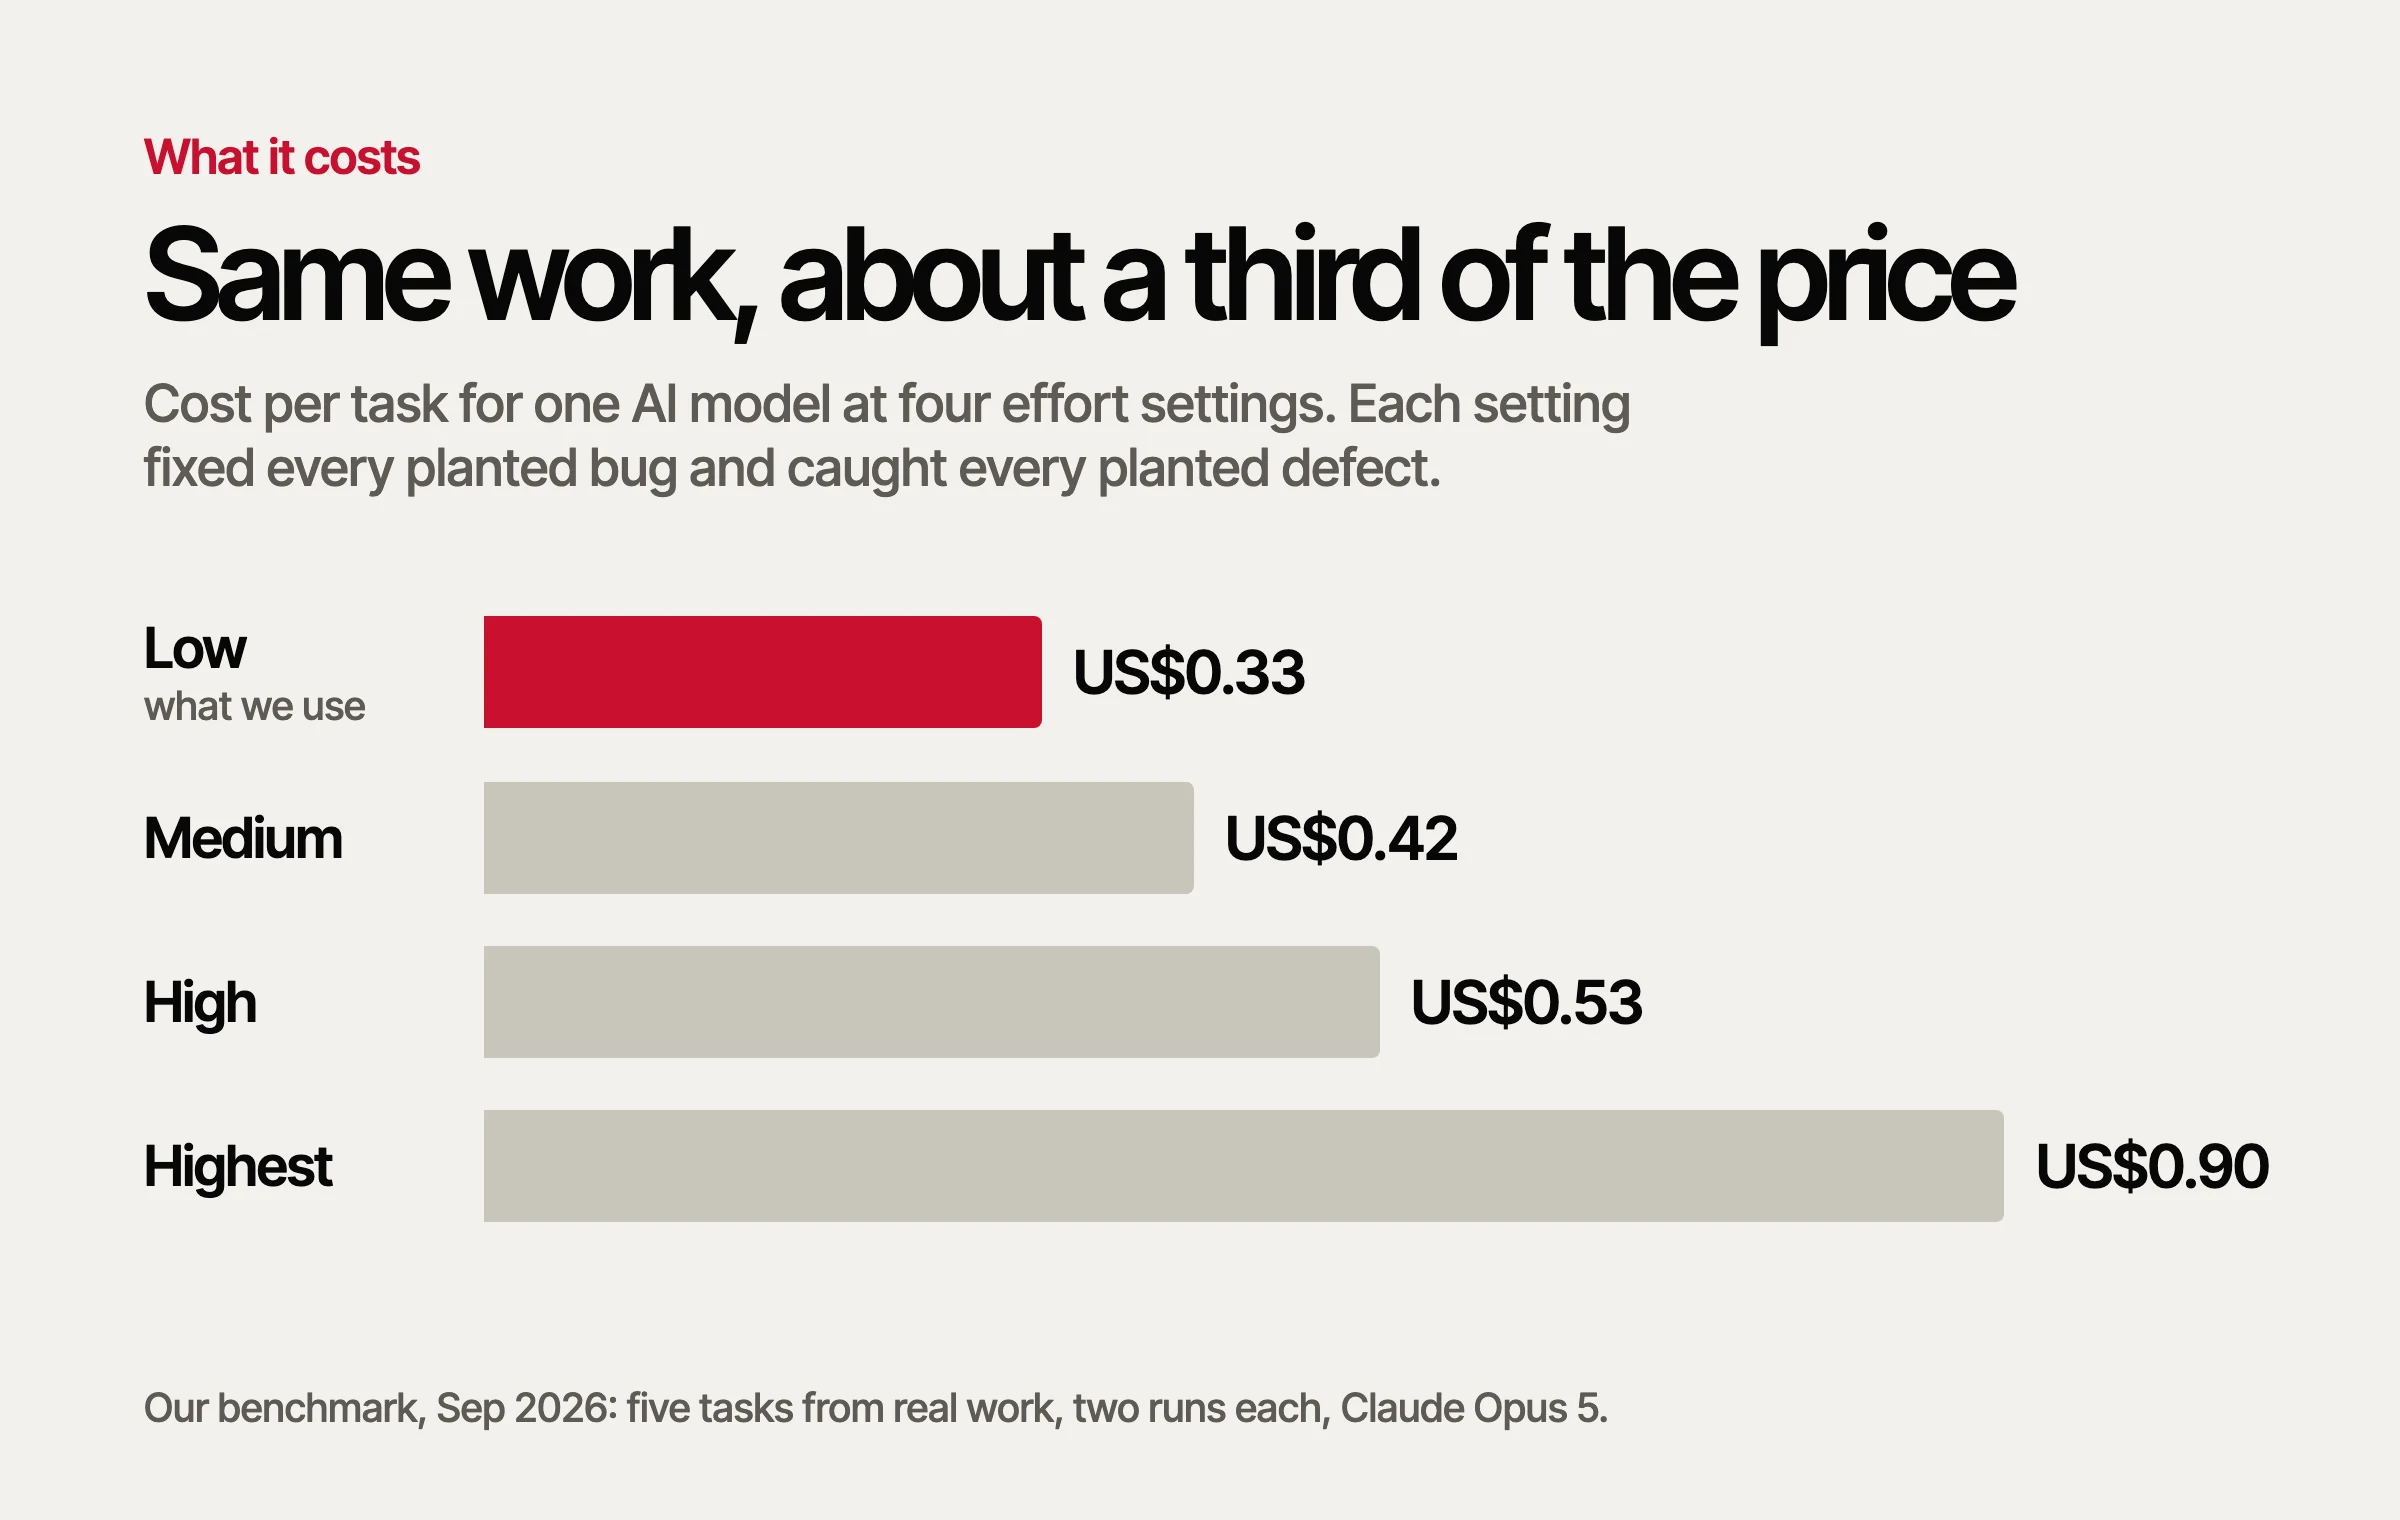
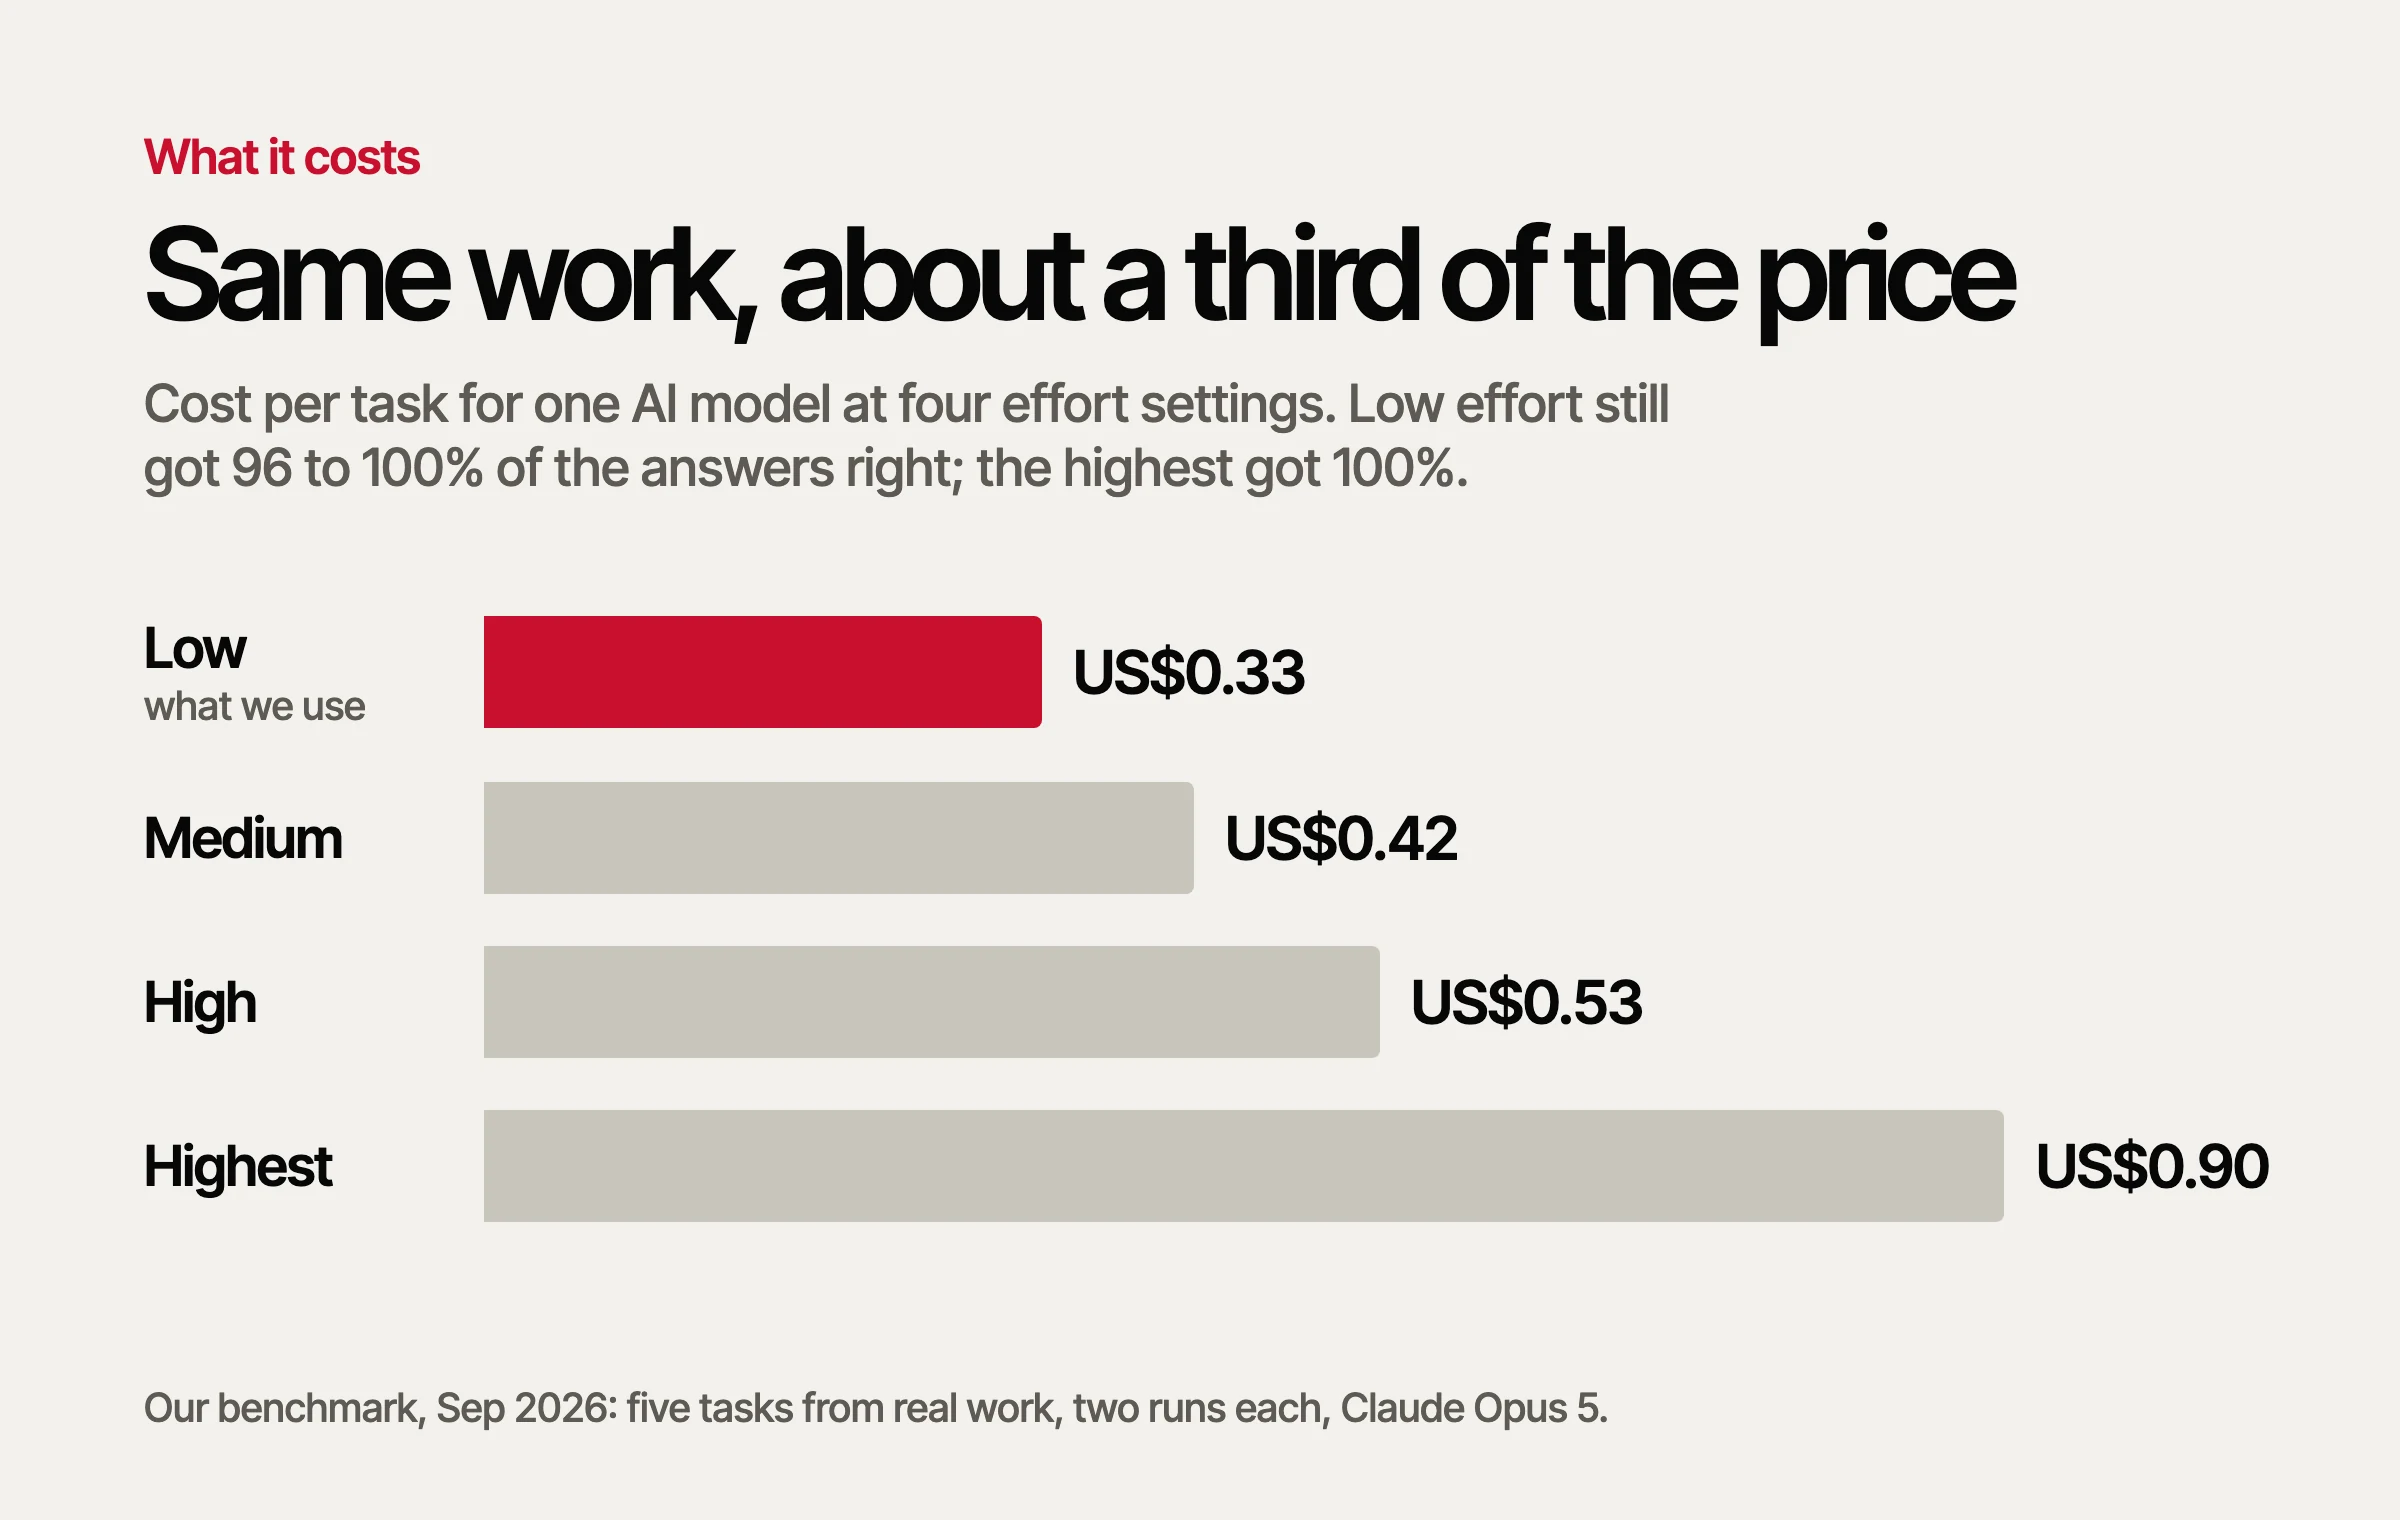
Fix the cstack cost claim and the Krishnaveni gallery lead
Low effort scored 96 to 100%, not every bug fixed. A wide shot leads the
Krishnaveni gallery so the small phone shot is not cropped.

Changed region(s): [[0.0625, 0.2474, 0.7188, 0.3401]]

diff --git a/src/data/cases.ts b/src/data/cases.ts
@@ -590,8 +590,8 @@ export const cases: CaseStudy[] = [
       role: "India",
     },
     media: [
-      { src: "/work/krishnaveni/mobile.webp", type: "image", label: "On a phone" },
       { src: "/work/krishnaveni/early-te-news.webp", type: "image", label: "The 2025 version, in three languages" },
+      { src: "/work/krishnaveni/mobile.webp", type: "image", label: "On a phone" },
       { src: "/work/krishnaveni/contact.webp", type: "image", label: "Contact page" },
     ],
     stack: "Next.js, Sanity",

diff --git a/src/data/posts.ts b/src/data/posts.ts
@@ -277,7 +277,7 @@ export const posts: Post[] = [
         type: "image",
         src: "/products/cstack/cost.webp",
         alt: "Bar chart of cost per task: US$0.33 at low effort, US$0.42 at medium, US$0.53 at high and US$0.90 at the highest.",
-        caption: "Same model, four effort settings. Every setting fixed every planted bug.",
+        caption: "Same model, four effort settings. Low effort still got 96 to 100% of the answers right.",
       },
       {
         type: "p",
